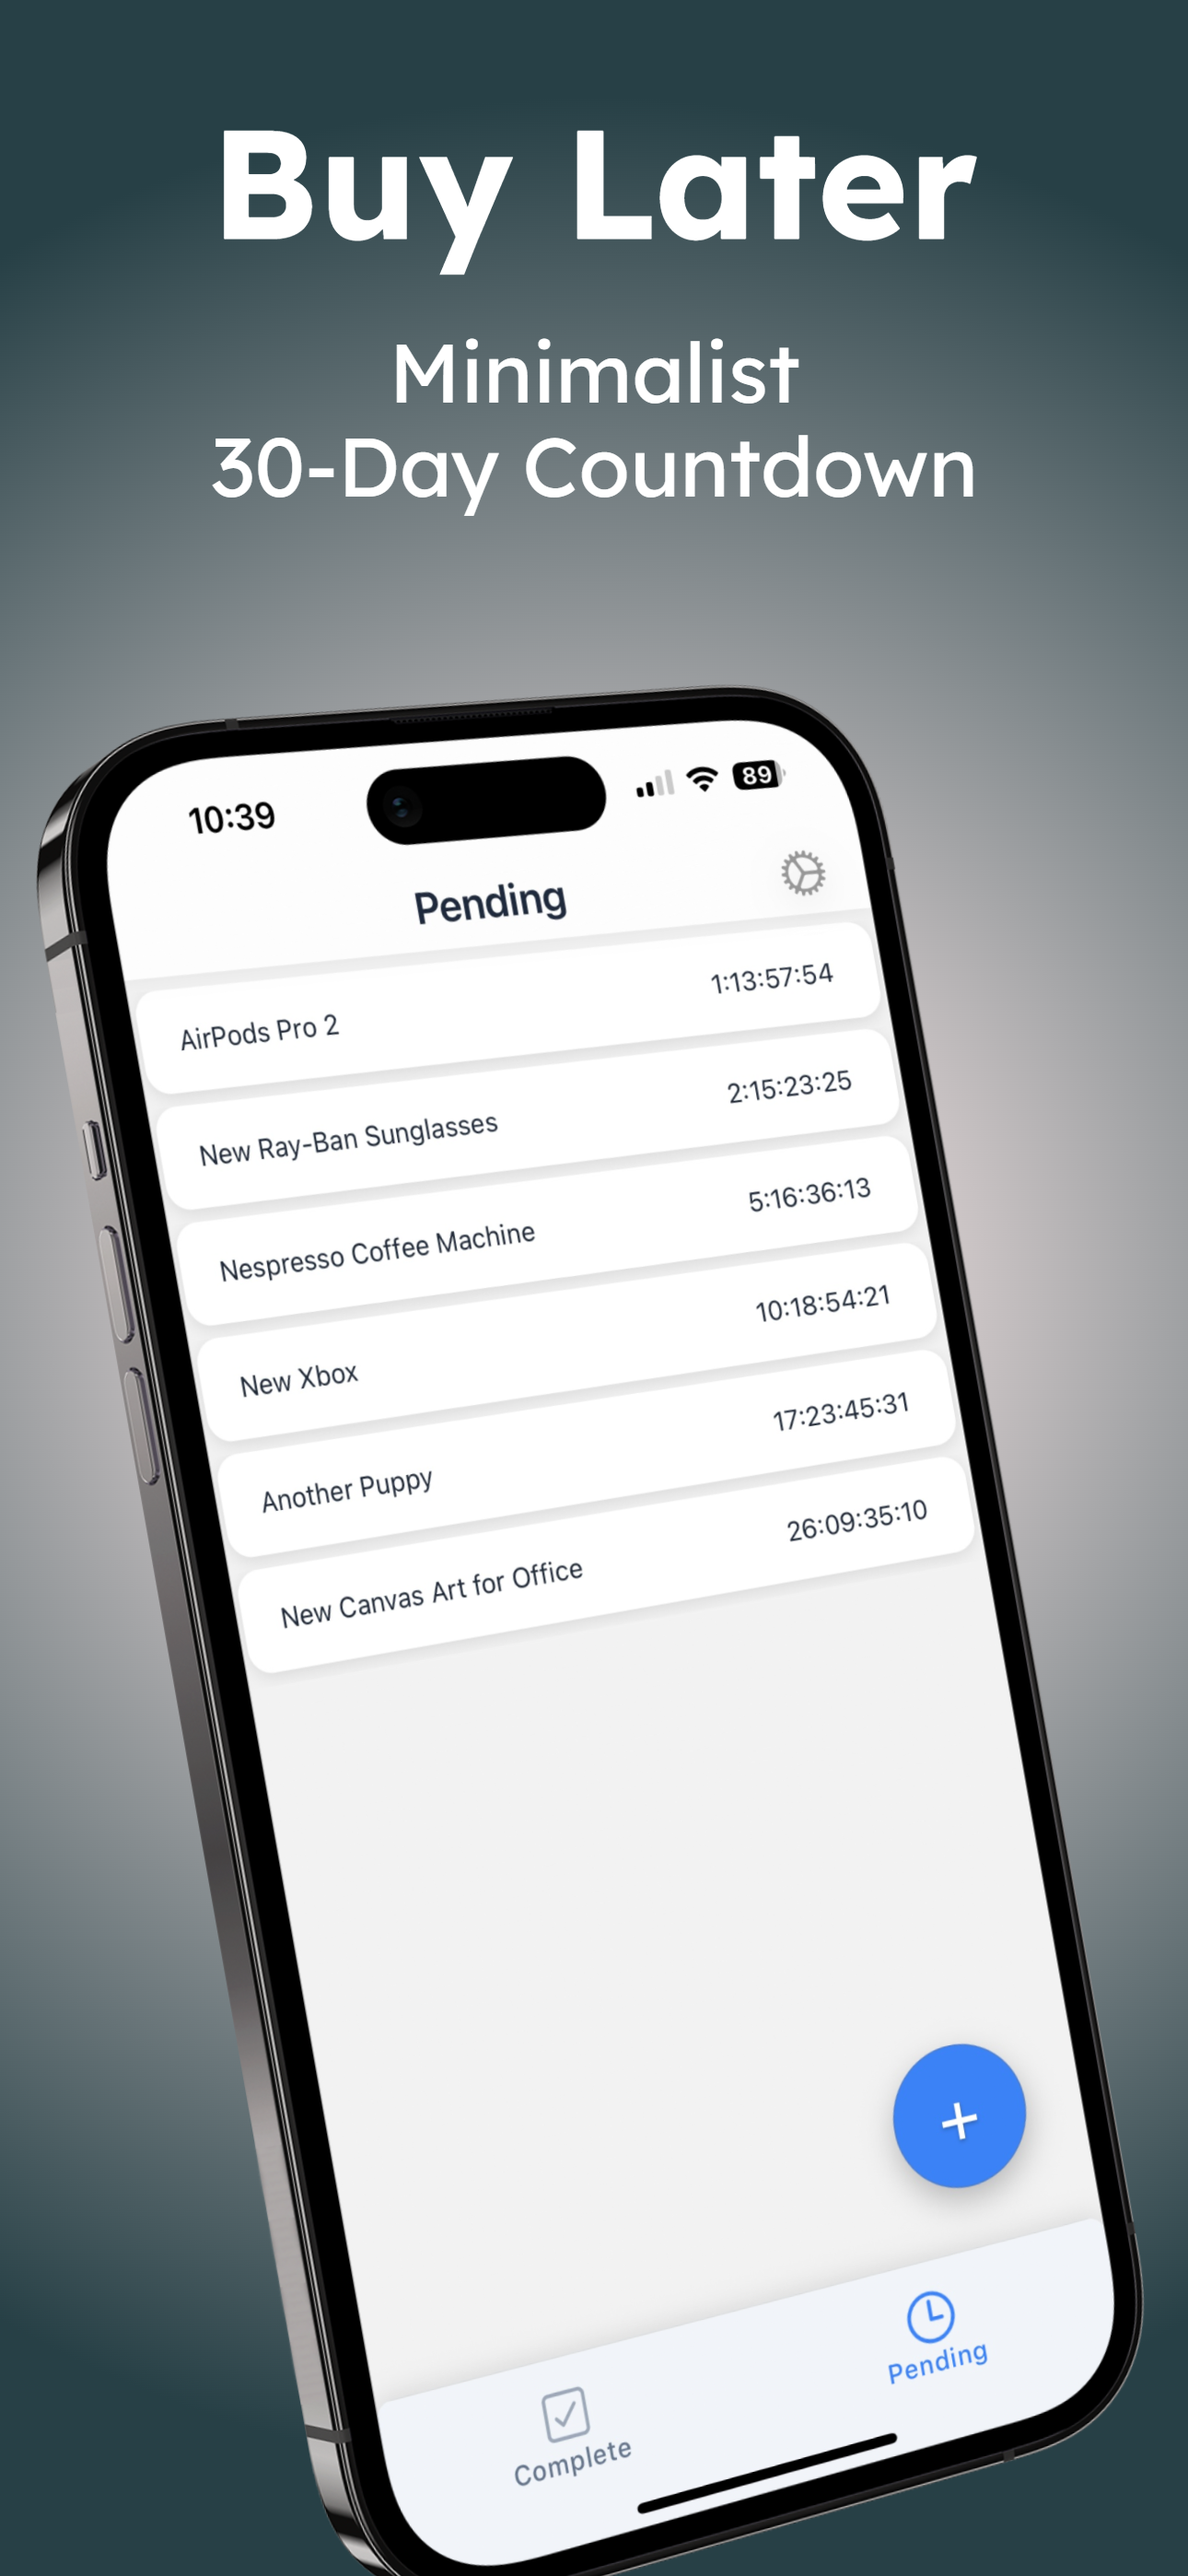
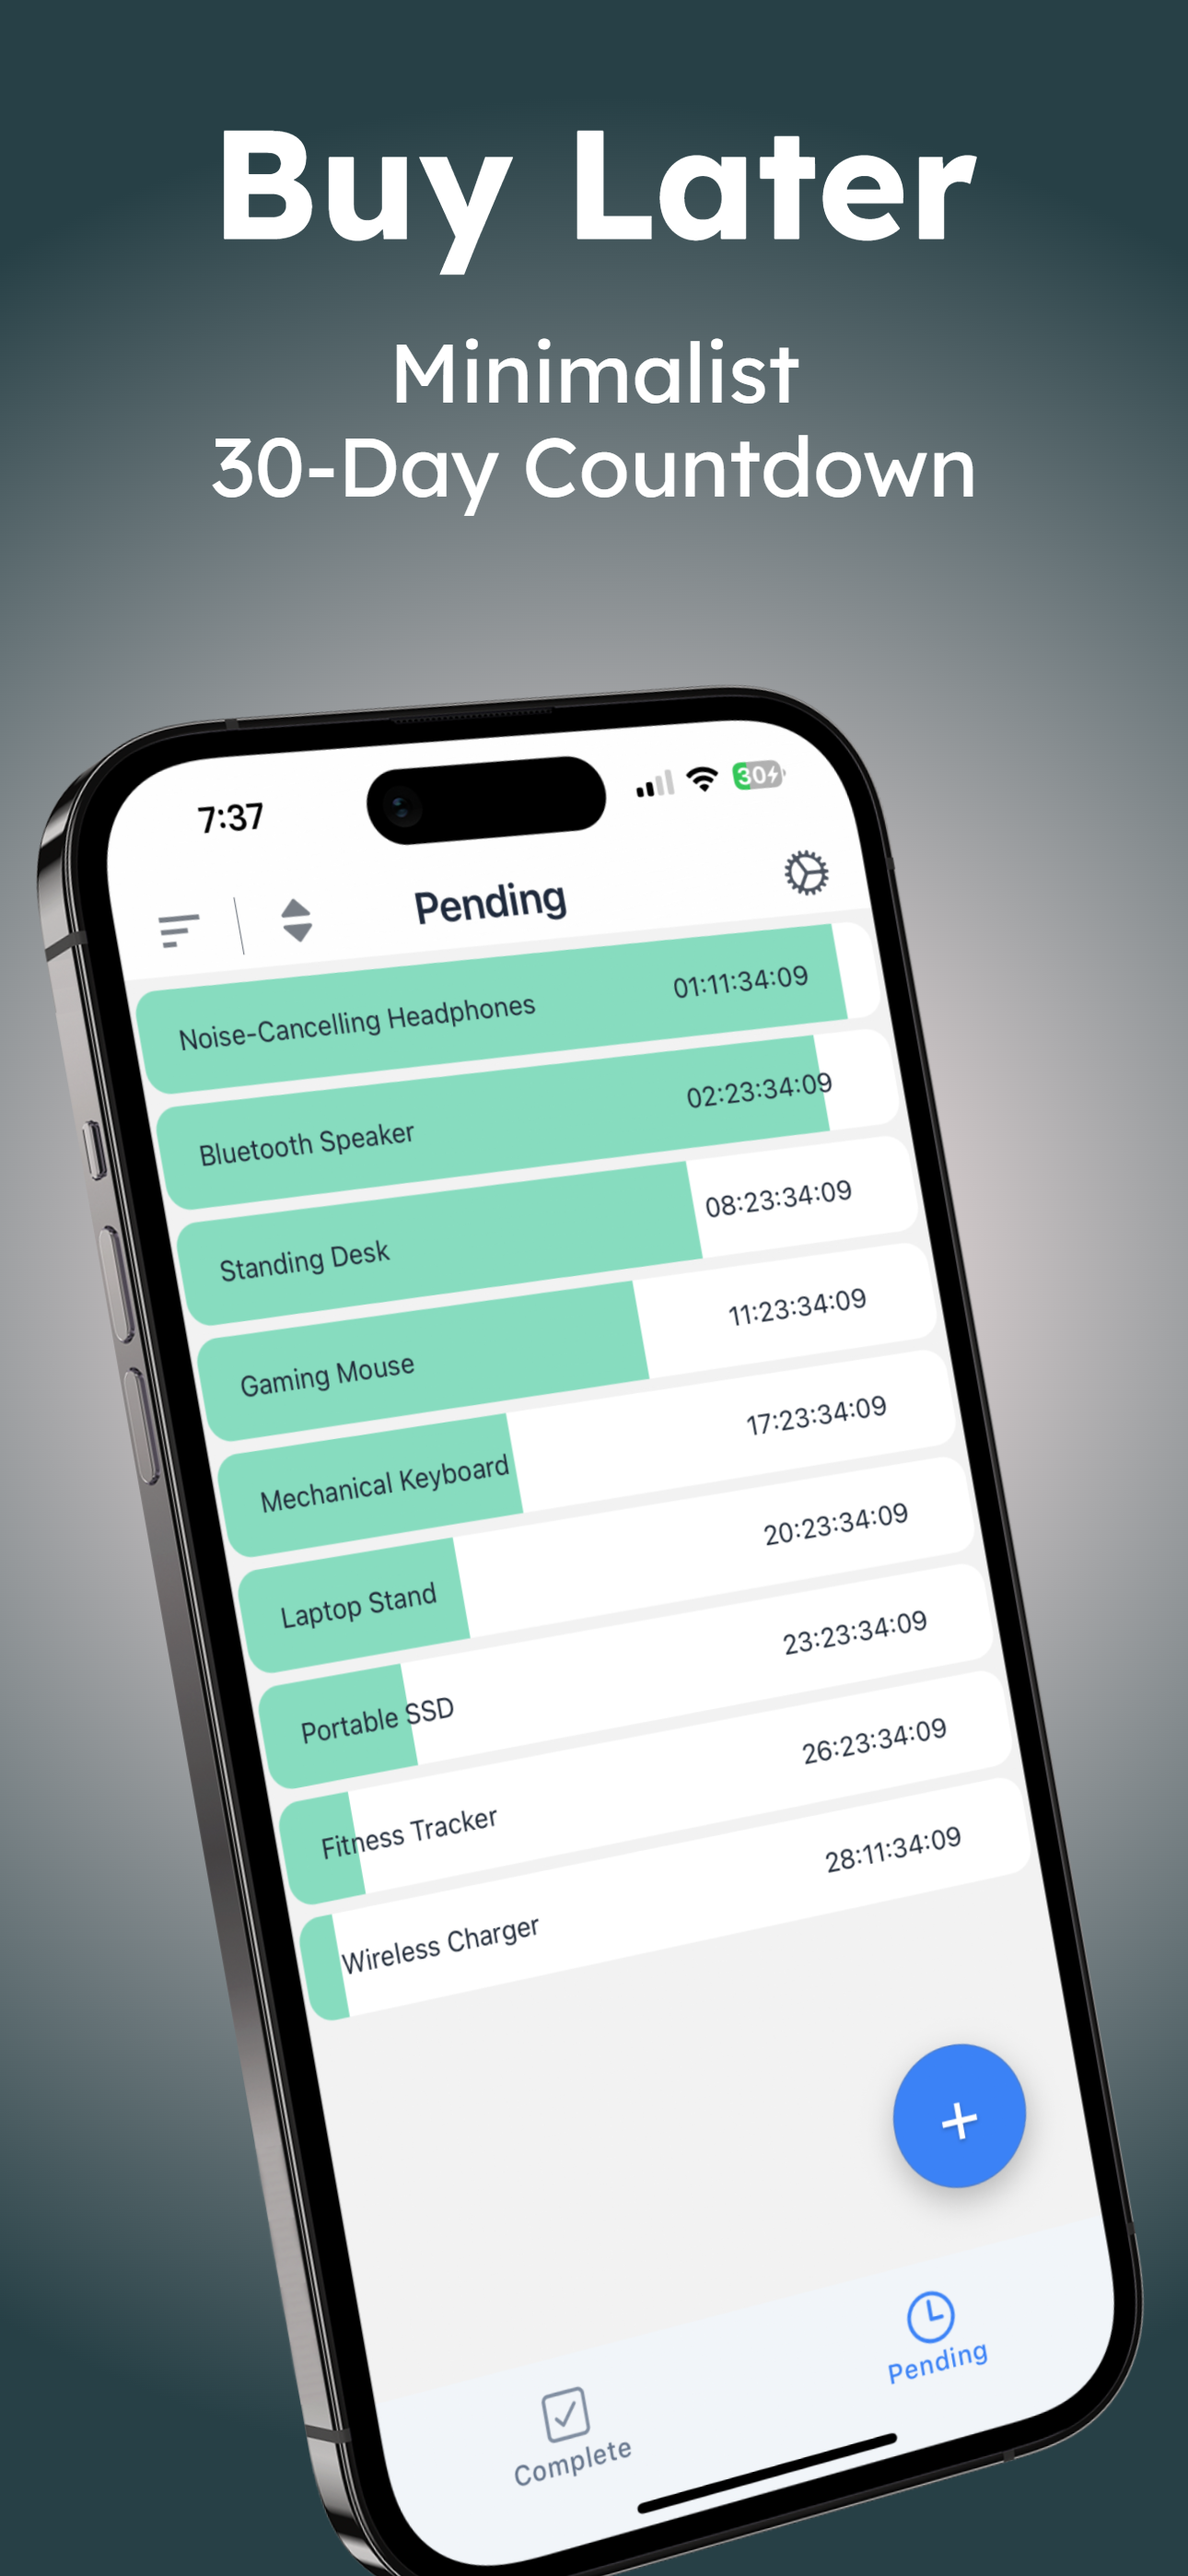
update images for buylater

diff --git a/index.html b/index.html
@@ -44,7 +44,7 @@
 					<div class="cardRight">
 						<img class="preview-pic" src="/assets/buy-later/01.png" />
 						<img class="preview-pic" src="/assets/buy-later/02.png" />
-						<img class="preview-pic" src="/assets/buy-later/03.png" />
+						<img class="preview-pic" src="/assets/buy-later/04.png" />
 					</div>
 				</div>
 
